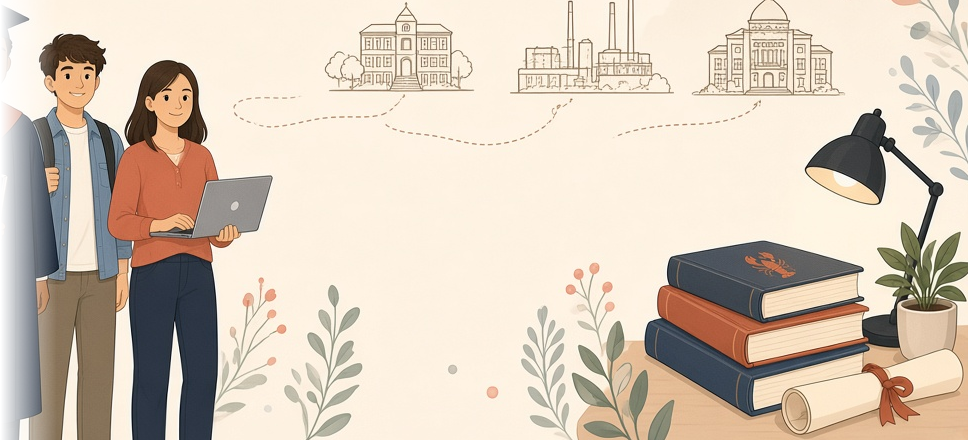
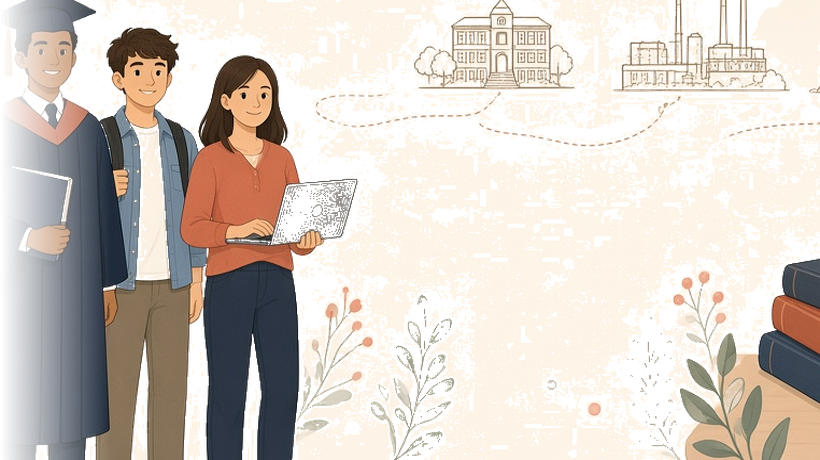
Opleidingen r11: fix mobile hero figure positioning, soft art blend, chip fade.

diff --git a/Jobsy.Web/wwwroot/css/features/opleidingen.css b/Jobsy.Web/wwwroot/css/features/opleidingen.css
@@ -1111,8 +1111,20 @@
     background-color: transparent;
     background-image: var(--cand-hero-mobile-atmosphere, none);
     background-repeat: no-repeat;
-    background-size: cover;
-    background-position: right bottom;
+    background-size: auto 100%;
+    background-position: left bottom;
+    -webkit-mask-image: linear-gradient(
+      90deg,
+      transparent 0%,
+      rgb(0 0 0 / 0.45) 14%,
+      #000 26%
+    );
+    mask-image: linear-gradient(
+      90deg,
+      transparent 0%,
+      rgb(0 0 0 / 0.45) 14%,
+      #000 26%
+    );
   }
 
   /* Gradient only in the strip between copy (left) and illustration (right). */
@@ -1149,8 +1161,8 @@
     background-color: transparent !important;
     background-image: var(--cand-hero-figures, none) !important;
     background-repeat: no-repeat;
-    background-size: auto 92%;
-    background-position: right bottom;
+    background-size: auto 90%;
+    background-position: left bottom;
     opacity: 1;
   }
 
@@ -1190,6 +1202,36 @@
 
   .opl-page .cand-hero--learn-grow + .opl-wrap .opl-search--below {
     margin-top: var(--space-3);
+  }
+
+  .opl-page .opl-filters__chip-rail {
+    -webkit-mask-image: linear-gradient(
+      90deg,
+      #000 0%,
+      #000 calc(100% - 4.25rem),
+      transparent 100%
+    );
+    mask-image: linear-gradient(
+      90deg,
+      #000 0%,
+      #000 calc(100% - 4.25rem),
+      transparent 100%
+    );
+  }
+
+  .opl-page .opl-filters__chip-rail::after {
+    z-index: 2;
+    width: 4.25rem;
+    background: linear-gradient(
+      90deg,
+      transparent 0%,
+      color-mix(in srgb, var(--surface) 70%, transparent) 35%,
+      var(--surface) 88%
+    );
+  }
+
+  .opl-page .opl-filters__subject-scroll {
+    padding-inline-end: 3.5rem;
   }
 }
 

diff --git a/tools/scripts/build-leren-groeien-hero-mobile-r11.py b/tools/scripts/build-leren-groeien-hero-mobile-r11.py
@@ -1,0 +1,127 @@
+#!/usr/bin/env python3
+"""R11 mobile learn-grow: people-forward panel + soft atmosphere (no hard seam)."""
+from __future__ import annotations
+
+from pathlib import Path
+
+from PIL import Image
+
+PEARL = (247, 244, 240)
+SRC = Path(__file__).resolve().parents[2] / "Jobsy.Web/wwwroot/images/candidate-illustrated/leren-groeien-hero.jpg"
+OUT_DIR = SRC.parent
+OUT_FIGURES = OUT_DIR / "leren-groeien-hero-figures-mobile.png"
+OUT_ATMO = OUT_DIR / "leren-groeien-hero-mobile-atmosphere.png"
+
+# Nurse → laptop woman (+ small book stack on the right).
+PEOPLE_BOX = (248, 286, 1010, 718)
+BOOKS_BOX = (998, 430, 1274, 718)
+PANEL_W = 820
+PANEL_H = 460
+FEATHER = 110
+
+
+def is_background(r: int, g: int, b: int) -> bool:
+    lum = 0.299 * r + 0.587 * g + 0.114 * b
+    mx, mn = max(r, g, b), min(r, g, b)
+    sat = (mx - mn) / mx if mx else 0.0
+    if lum >= 188 and sat <= 0.22:
+        return True
+    if abs(r - PEARL[0]) <= 10 and abs(g - PEARL[1]) <= 10 and abs(b - PEARL[2]) <= 12:
+        return True
+    return False
+
+
+def is_line_art(r: int, g: int, b: int) -> bool:
+    lum = 0.299 * r + 0.587 * g + 0.114 * b
+    mx, mn = max(r, g, b), min(r, g, b)
+    sat = (mx - mn) / mx if mx else 0.0
+    return lum >= 145 and sat <= 0.11
+
+
+def matting(rgba: Image.Image, *, keep_background: bool) -> Image.Image:
+    px = rgba.load()
+    w, h = rgba.size
+    for y in range(h):
+        for x in range(w):
+            r, g, b, a = px[x, y]
+            if is_line_art(r, g, b):
+                px[x, y] = (PEARL[0], PEARL[1], PEARL[2], 0)
+            elif is_background(r, g, b):
+                if keep_background:
+                    px[x, y] = (r, g, b, 200)
+                else:
+                    px[x, y] = (r, g, b, 0)
+    return rgba
+
+
+def feather_left(rgba: Image.Image) -> Image.Image:
+    w, h = rgba.size
+    px = rgba.load()
+    for x in range(min(FEATHER, w)):
+        f = x / FEATHER
+        for y in range(h):
+            r, g, b, a = px[x, y]
+            px[x, y] = (r, g, b, int(a * f))
+    return rgba
+
+
+def build_people_layer(src: Image.Image) -> Image.Image:
+    people = src.crop(PEOPLE_BOX).convert("RGBA")
+    people = matting(people, keep_background=False)
+    alpha = people.getchannel("A")
+    bbox = alpha.getbbox()
+    if not bbox:
+        raise SystemExit("no people pixels")
+    people = people.crop(bbox)
+
+    # Mask worker on far left of people strip.
+    pw, ph = people.size
+    mask_w = int(pw * 0.08)
+    px = people.load()
+    for x in range(mask_w):
+        for y in range(ph):
+            px[x, y] = (0, 0, 0, 0)
+
+    books = src.crop(BOOKS_BOX).convert("RGBA")
+    books = matting(books, keep_background=False)
+    books = books.resize((int(books.width * 0.55), int(books.height * 0.55)), Image.Resampling.LANCZOS)
+
+    canvas = Image.new("RGBA", (PANEL_W, PANEL_H), (0, 0, 0, 0))
+    people_h = PANEL_H - 8
+    people_w = int(people.width * (people_h / people.height))
+    people = people.resize((people_w, people_h), Image.Resampling.LANCZOS)
+    canvas.paste(people, (0, PANEL_H - people_h), people)
+    bx = min(people_w - 24, PANEL_W - books.width - 4)
+    by = PANEL_H - books.height
+    canvas.paste(books, (bx, by), books)
+    return canvas
+
+
+def build_atmosphere_layer(src: Image.Image) -> Image.Image:
+    panel = src.crop(PEOPLE_BOX).convert("RGBA")
+    panel = matting(panel, keep_background=True)
+    # Drop skyline strokes entirely.
+    px = panel.load()
+    w, h = panel.size
+    for y in range(h):
+        for x in range(w):
+            r, g, b, a = px[x, y]
+            if a and is_line_art(r, g, b):
+                px[x, y] = (PEARL[0], PEARL[1], PEARL[2], 0)
+    panel = panel.resize((PANEL_W, PANEL_H), Image.Resampling.LANCZOS)
+    return feather_left(panel)
+
+
+def main() -> None:
+    src = Image.open(SRC).convert("RGB")
+    fig = build_people_layer(src)
+    atmo = build_atmosphere_layer(src)
+    OUT_DIR.mkdir(parents=True, exist_ok=True)
+    fig.save(OUT_FIGURES, optimize=True)
+    atmo.save(OUT_ATMO, optimize=True)
+    print(f"wrote {OUT_FIGURES} size={fig.size}")
+    print(f"wrote {OUT_ATMO} size={atmo.size}")
+
+
+if __name__ == "__main__":
+    main()

diff --git a/Jobsy.Web/Hosting/PageAssetCatalog.cs b/Jobsy.Web/Hosting/PageAssetCatalog.cs
@@ -58,7 +58,7 @@ public static class PageAssetCatalog
         "css/features/tests.css?v=20261018-04",
         "css/features/candidate-illustrated-app.css?v=20261018-19",
         "css/features/carriere.css?v=20261011-01",
-        "css/features/opleidingen.css?v=20261018-r10",
+        "css/features/opleidingen.css?v=20261018-r11",
         "css/features/occupation-day.css?v=20261005-23",
         "css/features/honest-advice.css?v=20261005-07",
         "css/features/future-jobs.css?v=20261006-02",

diff --git a/Jobsy.Web/Media/CandidateIllustratedImages.cs b/Jobsy.Web/Media/CandidateIllustratedImages.cs
@@ -3,7 +3,7 @@ namespace Jobsy.Web.Media;
 /// <summary>Versioned URLs for candidate-facing illustrated pages (login, start, kompas, banenkaart).</summary>
 public static class CandidateIllustratedImages
 {
-    public const string Version = "20261018-10";
+    public const string Version = "20261018-11";
     private const string Base = $"/images/candidate-illustrated";
 
     public static string Url(string file) => $"{Base}/{file}?v={Version}";

diff --git a/tools/scripts/build-leren-groeien-hero-figures-mobile.py b/tools/scripts/build-leren-groeien-hero-figures-mobile.py
@@ -6,7 +6,7 @@ import subprocess
 import sys
 from pathlib import Path
 
-R10 = Path(__file__).resolve().parent / "build-leren-groeien-hero-mobile-r10.py"
+R10 = Path(__file__).resolve().parent / "build-leren-groeien-hero-mobile-r11.py"
 
 if __name__ == "__main__":
     raise SystemExit(subprocess.call([sys.executable, str(R10)]))
